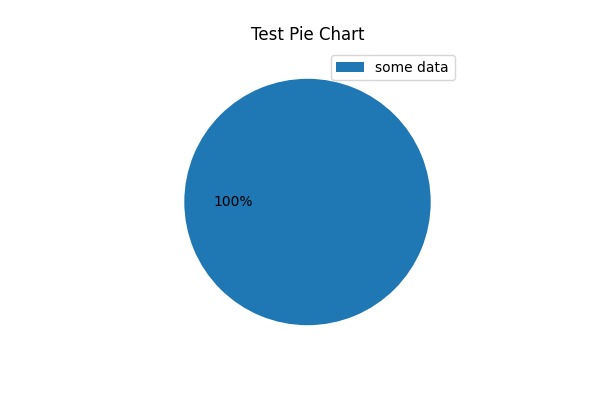
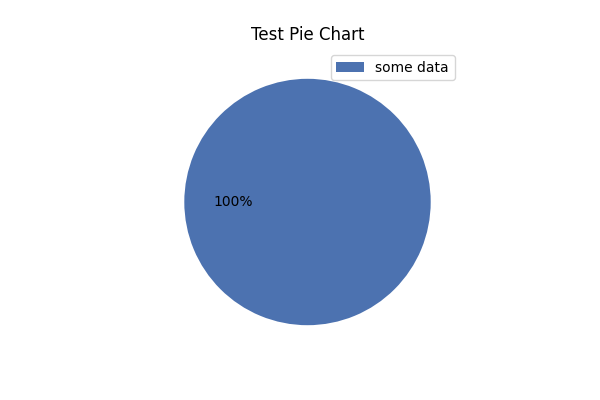
graphs on dashboard now have transparent backgrounds and pie has nicer colours

Changed region(s): [[0.3, 0.15, 0.72, 0.81]]

diff --git a/application/finance.py b/application/finance.py
@@ -1,6 +1,8 @@
 # import the data manipulation and visualisation tools
 import pandas as pd
 from matplotlib import pyplot as plt
+import numpy as np
+import seaborn as sns
 
 # import a module to connect to sql and open a local connection to the local server assigned to the variable 'cnx'
 import mysql.connector
@@ -13,6 +15,7 @@ class Finance:
     def get_name(self):
         return f"My name is {self.name}."
     
+
     # code to connect to the database, call a stored procedure and return a list of pieces of data
     def database_grab_list(self):
         mycursor = cnx.cursor()
@@ -30,20 +33,80 @@ class Finance:
         # cycles through that list and unpacks the tuples
         # collects the strings and adds them into the empty list and returns the list
 
+
     # code to create a pie chart using a list
-    def create_pie(self, my_list):
-        df = pd.DataFrame({'expenditure': my_list, 'spending': [50, 50]})
+    def create_pie(self, headers_list, user_list):
+        colours = sns.color_palette('deep')
+        df = pd.DataFrame({'expenditure': headers_list, 'spending': user_list})
         plt.figure(figsize=(6,4))
         plt.subplot()
-        plt.pie(df['spending'], autopct='%d%%')
+        plt.pie(df['spending'], colors=colours, autopct='%d%%')
         plt.axis('equal')
         plt.title("Test Pie Chart")
         plt.legend(df['expenditure'], loc='upper right', bbox_to_anchor=(1,1), fontsize=7)
-        plt.savefig('application/static/images/piechart2.png', transparent=True)
+        plt.savefig('application/static/images/piechart.png', transparent=True)
+        # use beautiful seaborn colours
         # creates a dataframe that matplot can use
         # creates the size of the pie chart
         # tells the computer to create the pie chart
         # which data to use and to display a whole figure percentage
         # put that pie chart (with a transparent background) in a saved file 
 
-    
+
+    # code to create a stacked bar chart using a list
+    def create_stacked_bar(self, user_list, comparison_list):
+        #c = sns.color_palette('deep')
+        expenditure = [user_list[0], comparison_list[0]]
+        housing = [user_list[1], comparison_list[1]]
+        groceries = [user_list[2], comparison_list[2]]
+        bills = [user_list[3], comparison_list[3]]
+        fuel = [user_list[4], comparison_list[4]]
+        train = [user_list[5], comparison_list[5]]
+        bus = [user_list[6], comparison_list[6]]
+        cafe = [user_list[7], comparison_list[7]]
+        holiday = [user_list[8], comparison_list[8]]
+        clothes = [user_list[9], comparison_list[9]]
+        x = range(2)
+        bills_bottom = np.add(housing, groceries)
+        fuel_bottom = np.add(bills_bottom, bills) 
+        train_bottom = np.add(fuel_bottom, fuel)
+        bus_bottom = np.add(train_bottom, train)
+        cafe_bottom = np.add(bus_bottom, bus)
+        holiday_bottom = np.add(cafe_bottom, cafe)
+        clothes_bottom = np.add(holiday_bottom, holiday)
+        plt.figure(figsize=(10, 8))
+        ax = plt.subplot()
+        plt.bar(x, housing)
+        plt.bar(x, groceries, bottom = housing)
+        plt.bar(x, bills, bottom = bills_bottom)
+        plt.bar(x, fuel, bottom = fuel_bottom) 
+        plt.bar(x, train, bottom = train_bottom)
+        plt.bar(x, bus, bottom = bus_bottom)
+        plt.bar(x, cafe, bottom = cafe_bottom)
+        plt.bar(x, holiday, bottom = holiday_bottom)
+        plt.bar(x, clothes, bottom = clothes_bottom)
+        ax.set_xticks(range(len(expenditure)))
+        ax.set_xticklabels((expenditure))
+        plt.title("Stacked bar chart: Comparison of Spending Distribution for Mortgage Paying Households")
+        plt.xlabel("Comparison")
+        plt.ylabel("Spending Type in £'s")
+        plt.legend(("Housing", "Food and Drink", "Energy Bills", "Fuel", "Train Fares", "Bus Fares", "Eating and Drinking", "Holidays", "Clothes and Footwear"))
+        plt.savefig('application/static/images/barstack.png', transparent=True)
+        # this can be created using a dataframe but I didn't learn that, I might have to to use the nice seaborn colours
+        # assign the list variables to the appropriate y_axis categories
+        # define the number of columns in the stacked bar chart
+        # calculations to add up the height of the stacks
+        # each time taking the height of the existing stack and adding on the previous stacked bar
+        # then create the graph, define the size of the output and the bars to stack up for 2 columns
+        # for example to display the cost of fuel, use the start position (bottom) for the stacked bar as the sum of all the values (fuel_bottom) of the heights of the other bars
+        # just have 2 markers (x-ticks) on the x-axis because the length of the expenditure list is 2
+        # use the strings in the expenditure list to label (xticklabels) those markers
+        # add titles, legend etc and save
+
+
+
+
+
+
+
+

diff --git a/application/routes.py b/application/routes.py
@@ -5,6 +5,8 @@ from application.finance import Finance
 # imports and database connection here are only to make the example page work, for our actual site we are using them from the class page
 import pandas as pd
 from matplotlib import pyplot as plt
+import seaborn as sns
+
 import mysql.connector
 cnx = mysql.connector.connect(user='root',password='password',host='127.0.0.1',database='test_finance')
 
@@ -44,6 +46,18 @@ def dashboard():
     # create the list from the database and assign to a variable
     user_spending = dashboard.database_grab_list()
 
+    # currently using hard-coded data to create graphs - this will be replaced by the above link to databases and stored procesdures when they have been written
+    headers_list = ['housing', 'food and drink', 'energy bills', 'petrol or diesel', 'train fares', 'bus fares', 'eating and drinking', 'holidays', 'clothes and footwear']
+    pie_user_list = [981, 372, 107, 102, 15, 35, 382, 115, 161]
+    user_list = ['My Spending', 981, 372, 107, 102, 15, 35, 382, 115, 161]
+    comparison_list = ['UK Average', 1054, 368, 112, 98, 18, 18, 26, 128, 181]
+    
+    # create a pie chart
+    dashboard.create_pie(headers_list, pie_user_list)
+
+     # create a stacked bar chart
+    dashboard.create_stacked_bar(user_list, comparison_list)
+
     return render_template('dashboard.html', title='Dashboard', user_spending=user_spending) #key=value pairs (my_variable_on_html_page = this_thing_here_on this page)
 
 
@@ -55,7 +69,7 @@ def admin():
     admin = Finance("admin")
 
     # create the list from the database and assign to a variable
-    user_spending = dashboard.database_grab_list()
+    user_spending = admin.database_grab_list()
 
     return render_template('admin.html', title='Admin', data_list=user_spending)
 
@@ -97,10 +111,12 @@ def example():
             return f"My name is {self.name}."
         
         def create_pie(self, my_variable):
+            #seaborn palette choices: deep, muted, pastel, bright, dark, and colorblind
+            colours = sns.color_palette('deep')#[0:5] I think this is how many colours we want
             df = pd.DataFrame({'expenditure': [my_variable], 'spending': [100]})
             plt.figure(figsize=(6,4))
             plt.subplot()
-            plt.pie(df['spending'], autopct='%d%%')
+            plt.pie(df['spending'], colors = colours, autopct='%d%%')
             plt.title("Test Pie Chart")
             plt.legend(df['expenditure'])
             plt.savefig('application/static/images/piechart1.png', transparent=True)

diff --git a/README.md b/README.md
@@ -50,3 +50,10 @@ git push --set-upstream origin the_name_of_your_branch
 - Is flask started?
 - Is MySql running?
 - The example page uses code from the test1 database, has that database been built by running code from scripts/test_finance.sql
+
+# Site Guide
+
+- install the requirements
+- run the app.py file to start the site locally
+- finance.py is our CLASS page for our OOP
+- static folder holds 3 further folders; images, styles and scripts (which has .sql and .py files and possibly .js too if we write some)
